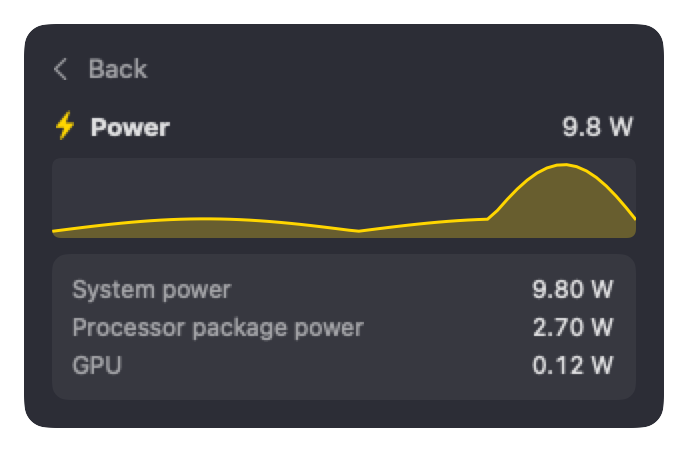
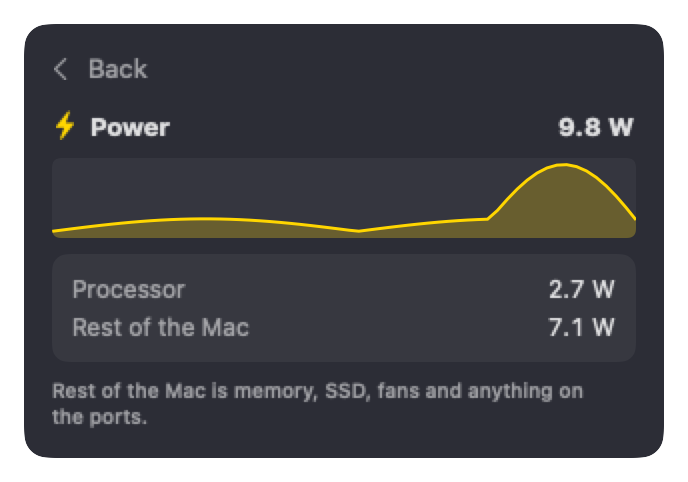
Power page: one big number, processor and rest of the Mac

diff --git a/Sources/SystemMonitorApp/PanelView.swift b/Sources/SystemMonitorApp/PanelView.swift
@@ -464,38 +464,38 @@ struct PanelView: View {
 
     // MARK: Power
 
-    /// Power page: the system's draw over time, then where it comes from and goes.
+    /// Power page: the system's draw over time, split into the processor and the rest of the Mac.
     private var powerSection: some View {
-        let known = monitor.sensors.filter { $0.kind == .power && SensorsCollector.isKnown($0.name) }
+        let system = monitor.power?.systemWatts
+        let package = monitor.sensors.first { $0.kind == .power && $0.name == "Processor package power" }?.value
         return VStack(alignment: .leading, spacing: 8) {
             HStack {
                 header(.power)
                 Spacer()
-                Text(monitor.power?.systemWatts.map { String(format: "%.1f W", $0) } ?? "n/a").monospacedDigit()
+                Text(system.map { String(format: "%.1f W", $0) } ?? "n/a").font(.headline).monospacedDigit()
             }
             HistoryChart(values: zoomed(monitor.powerHistory, minSpan: 2, floor: 0, padding: 0.5), color: MonitorItem.power.color,
                          scrub: scrub(monitor.powerHistory) { String(format: "%.1f W", $0) }).frame(height: 40)
-            VStack(spacing: 4) {
-                ForEach(known.indices, id: \.self) { i in
+            if let system, let package {
+                VStack(spacing: 4) {
                     HStack {
-                        Text(known[i].name).foregroundStyle(.secondary)
-                        Spacer(minLength: 6)
-                        Text(sensorText(known[i])).monospacedDigit()
+                        Text("Processor").foregroundStyle(.secondary)
+                        Spacer()
+                        Text(String(format: "%.1f W", package)).monospacedDigit()
                     }
-                    .font(.system(size: 12))
-                }
-                if let gpu = monitor.power?.gpuWatts {
                     HStack {
-                        Text("GPU").foregroundStyle(.secondary)
-                        Spacer(minLength: 6)
-                        Text(String(format: "%.2f W", gpu)).monospacedDigit()
+                        Text("Rest of the Mac").foregroundStyle(.secondary)
+                        Spacer()
+                        Text(String(format: "%.1f W", max(0, system - package))).monospacedDigit()
                     }
-                    .font(.system(size: 12))
                 }
+                .font(.system(size: 12))
+                .padding(10)
+                .frame(maxWidth: .infinity, alignment: .leading)
+                .background(Color.primary.opacity(0.06), in: RoundedRectangle(cornerRadius: 8))
+                Text("Rest of the Mac is memory, SSD, fans and anything on the ports.")
+                    .font(.caption2).foregroundStyle(.secondary)
             }
-            .padding(10)
-            .frame(maxWidth: .infinity, alignment: .leading)
-            .background(Color.primary.opacity(0.06), in: RoundedRectangle(cornerRadius: 8))
         }
     }
 

diff --git a/CHANGELOG.md b/CHANGELOG.md
@@ -16,7 +16,7 @@ More in this release
 - Drives show free space on the tile, and a red "SMART" warning if macOS reports a drive failing.
 - Batteries: the Mac's own battery on laptops and connected Bluetooth devices (AirPods, mouse, keyboard) in one strip with an arrow; click it for a page with a bar for every part (left, right, case).
 - Busiest apps by CPU on the CPU page and by memory on the Memory page (read only while that page is open): readable names, helper processes added to their app, the app icon and a bar.
-- Sensors page (click the Avg temp tile): CPU, GPU, memory and SSD temperatures, the chip sensors as one line (average and highest), fans and power, with every reading one click away; and a warning when macOS is throttling. The Power tile opens a Power page: draw over time, power adapter in, processor package power and GPU.
+- Sensors page (click the Avg temp tile): CPU, GPU, memory and SSD temperatures, the chip sensors as one line (average and highest), fans and power, with every reading one click away; and a warning when macOS is throttling. The Power tile opens a Power page: the draw over time, split into the processor and the rest of the Mac.
 - Menu bar: Names or Icons, with red temperatures and steady widths so the bar does not bounce. The Display settings are three rows: Temperatures, Panel (Grid or Rows) and Menu bar.
 - Graph hover: hover a graph on a page to see the exact value and how long ago.
 - Settings: type what Activity Monitor shows and "Calibrate" corrects Memory used for that Mac (Reset undoes it). Batteries also reads Bluetooth LE keyboards such as the Logitech MX Keys and Logitech mice on a USB receiver (HID++) while the Batteries item is on; macOS may ask for Bluetooth or input access once.
